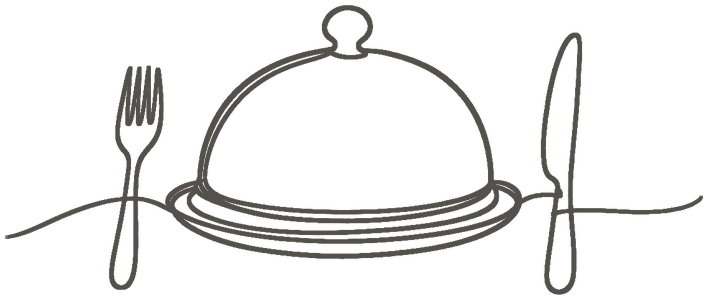
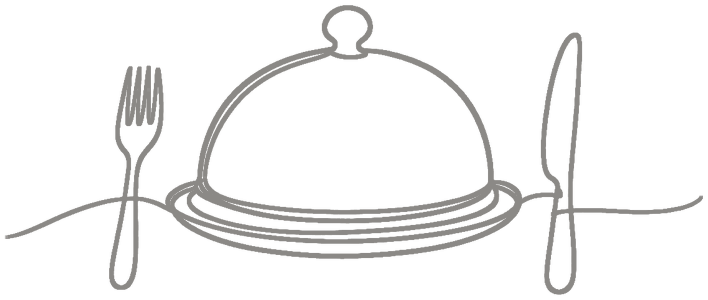
The Day: fix image address quotes, ease the tower, hand and dinner drawings, refresh versions

diff --git a/the-day.html b/the-day.html
@@ -9,7 +9,7 @@
 <link rel="preconnect" href="https://fonts.googleapis.com" />
 <link rel="preconnect" href="https://fonts.gstatic.com" crossorigin />
 <link href="https://fonts.googleapis.com/css2?family=Cormorant+Garamond:ital,wght@0,400;0,500;0,600;1,400&family=Jost:wght@300;400;500;600;700&family=Pinyon+Script&family=Playfair+Display:ital,wght@0,500;0,600;1,500&family=Bodoni+Moda:ital,wght@0,500;0,600;1,500&family=Cinzel:wght@500;600&family=Marcellus&family=Prata&display=swap" rel="stylesheet" />
-<link rel="stylesheet" href="style.css?v=60" />
+<link rel="stylesheet" href="style.css?v=61" />
 </head>
 <body>
 
@@ -39,22 +39,22 @@
       <hr class="divider" aria-hidden="true" />
     </div>
     <div class="timeline">
-      <div class="tl-item tl-item--art"><div class="tl-text"><div class="tl-time">11:45 am</div><div class="tl-label">Guests Arrive</div><div class="tl-note">Welcome, and a &lsquo;getting comfy&rsquo; half hour</div></div><div class="tl-art tl-art--r"><img src="Photos/itinerary/guests.png?v=15 alt="" loading="lazy"></div></div>
-      <div class="tl-item tl-item--art"><div class="tl-art tl-art--l"><img src="Photos/itinerary/seated.png?v=15 alt="" loading="lazy"></div><div class="tl-text"><div class="tl-time">12:15 pm</div><div class="tl-label">Please Be Seated</div><div class="tl-note">Guests are seated while the registrar speaks with the couple</div></div></div>
-      <div class="tl-item tl-item--art"><div class="tl-text"><div class="tl-time">12:30 pm</div><div class="tl-label">The Ceremony</div><div class="tl-note">The main event &ndash; it&rsquo;s time to make it official!</div></div><div class="tl-art tl-art--r"><img src="Photos/itinerary/ceremony.png?v=15 alt="" loading="lazy"></div></div>
-      <div class="tl-item tl-item--art"><div class="tl-art tl-art--l"><img src="Photos/itinerary/camera.png?v=15 alt="" loading="lazy"></div><div class="tl-text"><div class="tl-time">1:00 pm</div><div class="tl-label">Drinks Reception &amp; Photographs</div><div class="tl-note"></div></div></div>
-      <div class="tl-item tl-item--art"><div class="tl-text"><div class="tl-time">1:15 pm</div><div class="tl-label">Canap&eacute;s</div><div class="tl-note">Served during the drinks reception</div></div><div class="tl-art tl-art--r"><img src="Photos/itinerary/canapes.png?v=15 alt="" loading="lazy"></div></div>
-      <div class="tl-item tl-item--art"><div class="tl-art tl-art--l"><img src="Photos/itinerary/tower.png?v=15 alt="" loading="lazy"></div><div class="tl-text"><div class="tl-time">2:30 pm</div><div class="tl-label">Into the Ballroom</div><div class="tl-note">Guests are moved through to the Ballroom</div></div></div>
-      <div class="tl-item tl-item--art"><div class="tl-text"><div class="tl-time">2:45 pm</div><div class="tl-label">The Happy Couple</div><div class="tl-note">The Master of Ceremonies announces Jessica &amp; Matthew</div></div><div class="tl-art tl-art--r"><img src="Photos/itinerary/couple.png?v=15 alt="" loading="lazy"></div></div>
-      <div class="tl-item tl-item--art"><div class="tl-art tl-art--l"><img src="Photos/itinerary/toast.png?v=15 alt="" loading="lazy"></div><div class="tl-text"><div class="tl-time">3:00 pm</div><div class="tl-label">Speeches &amp; Toast</div><div class="tl-note"></div></div></div>
-      <div class="tl-item tl-item--art"><div class="tl-text"><div class="tl-time">3:30 pm</div><div class="tl-label">Wedding Breakfast</div><div class="tl-note">The wedding breakfast is served</div></div><div class="tl-art tl-art--r"><img src="Photos/itinerary/breakfast.png?v=15 alt="" loading="lazy"></div></div>
-      <div class="tl-item tl-item--art"><div class="tl-art tl-art--l"><img src="Photos/itinerary/cocktail.png?v=15 alt="" loading="lazy"></div><div class="tl-text"><div class="tl-time">5:30 pm</div><div class="tl-label">Refreshment Hour</div><div class="tl-note">An hour of refreshment time before we meet back for the evening</div></div></div>
-      <div class="tl-item tl-item--art"><div class="tl-text"><div class="tl-time">6:30 pm</div><div class="tl-label">Evening Guests Arrive</div><div class="tl-note">Evening guests arrive and the cake is cut</div></div><div class="tl-art tl-art--r"><img src="Photos/itinerary/cake.png?v=15 alt="" loading="lazy"></div></div>
-      <div class="tl-item tl-item--art"><div class="tl-art tl-art--l"><img src="Photos/itinerary/dance.png?v=15 alt="" loading="lazy"></div><div class="tl-text"><div class="tl-time">7:00 pm</div><div class="tl-label">First Dance</div><div class="tl-note"></div></div></div>
-      <div class="tl-item tl-item--art"><div class="tl-text"><div class="tl-time">8:30 pm</div><div class="tl-label">Evening Food</div><div class="tl-note">Evening food is served</div></div><div class="tl-art tl-art--r"><img src="Photos/itinerary/dinner.png?v=15 alt="" loading="lazy"></div></div>
-      <div class="tl-item tl-item--art"><div class="tl-art tl-art--l"><img src="Photos/itinerary/taxi.png?v=15 alt="" loading="lazy"></div><div class="tl-text"><div class="tl-time">12:00 am</div><div class="tl-label">Farewell</div><div class="tl-note">The bar closes, the music finishes and guests depart</div></div></div>
+      <div class="tl-item tl-item--art"><div class="tl-text"><div class="tl-time">11:45 am</div><div class="tl-label">Guests Arrive</div><div class="tl-note">Welcome, and a &lsquo;getting comfy&rsquo; half hour</div></div><div class="tl-art tl-art--r"><img src="Photos/itinerary/guests.png?v=19" alt="" loading="lazy"></div></div>
+      <div class="tl-item tl-item--art"><div class="tl-art tl-art--l"><img src="Photos/itinerary/seated.png?v=19" alt="" loading="lazy"></div><div class="tl-text"><div class="tl-time">12:15 pm</div><div class="tl-label">Please Be Seated</div><div class="tl-note">Guests are seated while the registrar speaks with the couple</div></div></div>
+      <div class="tl-item tl-item--art"><div class="tl-text"><div class="tl-time">12:30 pm</div><div class="tl-label">The Ceremony</div><div class="tl-note">The main event &ndash; it&rsquo;s time to make it official!</div></div><div class="tl-art tl-art--r"><img src="Photos/itinerary/ceremony.png?v=19" alt="" loading="lazy"></div></div>
+      <div class="tl-item tl-item--art"><div class="tl-art tl-art--l"><img src="Photos/itinerary/camera.png?v=19" alt="" loading="lazy"></div><div class="tl-text"><div class="tl-time">1:00 pm</div><div class="tl-label">Drinks Reception &amp; Photographs</div><div class="tl-note"></div></div></div>
+      <div class="tl-item tl-item--art"><div class="tl-text"><div class="tl-time">1:15 pm</div><div class="tl-label">Canap&eacute;s</div><div class="tl-note">Served during the drinks reception</div></div><div class="tl-art tl-art--r"><img src="Photos/itinerary/canapes.png?v=19" alt="" loading="lazy"></div></div>
+      <div class="tl-item tl-item--art"><div class="tl-art tl-art--l"><img src="Photos/itinerary/tower.png?v=19" alt="" loading="lazy"></div><div class="tl-text"><div class="tl-time">2:30 pm</div><div class="tl-label">Into the Ballroom</div><div class="tl-note">Guests are moved through to the Ballroom</div></div></div>
+      <div class="tl-item tl-item--art"><div class="tl-text"><div class="tl-time">2:45 pm</div><div class="tl-label">The Happy Couple</div><div class="tl-note">The Master of Ceremonies announces Jessica &amp; Matthew</div></div><div class="tl-art tl-art--r"><img src="Photos/itinerary/couple.png?v=19" alt="" loading="lazy"></div></div>
+      <div class="tl-item tl-item--art"><div class="tl-art tl-art--l"><img src="Photos/itinerary/toast.png?v=19" alt="" loading="lazy"></div><div class="tl-text"><div class="tl-time">3:00 pm</div><div class="tl-label">Speeches &amp; Toast</div><div class="tl-note"></div></div></div>
+      <div class="tl-item tl-item--art"><div class="tl-text"><div class="tl-time">3:30 pm</div><div class="tl-label">Wedding Breakfast</div><div class="tl-note">The wedding breakfast is served</div></div><div class="tl-art tl-art--r"><img src="Photos/itinerary/breakfast.png?v=19" alt="" loading="lazy"></div></div>
+      <div class="tl-item tl-item--art"><div class="tl-art tl-art--l"><img src="Photos/itinerary/cocktail.png?v=19" alt="" loading="lazy"></div><div class="tl-text"><div class="tl-time">5:30 pm</div><div class="tl-label">Refreshment Hour</div><div class="tl-note">An hour of refreshment time before we meet back for the evening</div></div></div>
+      <div class="tl-item tl-item--art"><div class="tl-text"><div class="tl-time">6:30 pm</div><div class="tl-label">Evening Guests Arrive</div><div class="tl-note">Evening guests arrive and the cake is cut</div></div><div class="tl-art tl-art--r"><img src="Photos/itinerary/cake.png?v=19" alt="" loading="lazy"></div></div>
+      <div class="tl-item tl-item--art"><div class="tl-art tl-art--l"><img src="Photos/itinerary/dance.png?v=19" alt="" loading="lazy"></div><div class="tl-text"><div class="tl-time">7:00 pm</div><div class="tl-label">First Dance</div><div class="tl-note"></div></div></div>
+      <div class="tl-item tl-item--art"><div class="tl-text"><div class="tl-time">8:30 pm</div><div class="tl-label">Evening Food</div><div class="tl-note">Evening food is served</div></div><div class="tl-art tl-art--r"><img src="Photos/itinerary/dinner.png?v=19" alt="" loading="lazy"></div></div>
+      <div class="tl-item tl-item--art"><div class="tl-art tl-art--l"><img src="Photos/itinerary/taxi.png?v=19" alt="" loading="lazy"></div><div class="tl-text"><div class="tl-time">12:00 am</div><div class="tl-label">Farewell</div><div class="tl-note">The bar closes, the music finishes and guests depart</div></div></div>
     </div>
-    <div class="day-end" aria-hidden="true"><img src="Photos/itinerary/farewell.png?v=15 alt="" loading="lazy"></div>
+    <div class="day-end" aria-hidden="true"><img src="Photos/itinerary/farewell.png?v=19" alt="" loading="lazy"></div>
   </section>
 
   </main>

diff --git a/index.html b/index.html
@@ -19,7 +19,7 @@
 <link rel="preconnect" href="https://fonts.googleapis.com" />
 <link rel="preconnect" href="https://fonts.gstatic.com" crossorigin />
 <link href="https://fonts.googleapis.com/css2?family=Cormorant+Garamond:ital,wght@0,400;0,500;0,600;1,400&family=Jost:wght@300;400;500;600;700&family=Pinyon+Script&family=Playfair+Display:ital,wght@0,500;0,600;1,500&family=Bodoni+Moda:ital,wght@0,500;0,600;1,500&family=Cinzel:wght@500;600&family=Marcellus&family=Prata&display=swap" rel="stylesheet" />
-<link rel="stylesheet" href="style.css?v=60" />
+<link rel="stylesheet" href="style.css?v=61" />
 </head>
 <body>
 

diff --git a/faq.html b/faq.html
@@ -9,7 +9,7 @@
 <link rel="preconnect" href="https://fonts.googleapis.com" />
 <link rel="preconnect" href="https://fonts.gstatic.com" crossorigin />
 <link href="https://fonts.googleapis.com/css2?family=Cormorant+Garamond:ital,wght@0,400;0,500;0,600;1,400&family=Jost:wght@300;400;500;600;700&family=Pinyon+Script&family=Playfair+Display:ital,wght@0,500;0,600;1,500&family=Bodoni+Moda:ital,wght@0,500;0,600;1,500&family=Cinzel:wght@500;600&family=Marcellus&family=Prata&display=swap" rel="stylesheet" />
-<link rel="stylesheet" href="style.css?v=60" />
+<link rel="stylesheet" href="style.css?v=61" />
 </head>
 <body>
 

diff --git a/registry.html b/registry.html
@@ -9,7 +9,7 @@
 <link rel="preconnect" href="https://fonts.googleapis.com" />
 <link rel="preconnect" href="https://fonts.gstatic.com" crossorigin />
 <link href="https://fonts.googleapis.com/css2?family=Cormorant+Garamond:ital,wght@0,400;0,500;0,600;1,400&family=Jost:wght@300;400;500;600;700&family=Pinyon+Script&family=Playfair+Display:ital,wght@0,500;0,600;1,500&family=Bodoni+Moda:ital,wght@0,500;0,600;1,500&family=Cinzel:wght@500;600&family=Marcellus&family=Prata&display=swap" rel="stylesheet" />
-<link rel="stylesheet" href="style.css?v=60" />
+<link rel="stylesheet" href="style.css?v=61" />
 </head>
 <body>
 

diff --git a/rsvp.html b/rsvp.html
@@ -9,7 +9,7 @@
 <link rel="preconnect" href="https://fonts.googleapis.com" />
 <link rel="preconnect" href="https://fonts.gstatic.com" crossorigin />
 <link href="https://fonts.googleapis.com/css2?family=Cormorant+Garamond:ital,wght@0,400;0,500;0,600;1,400&family=Jost:wght@300;400;500;600;700&family=Pinyon+Script&family=Playfair+Display:ital,wght@0,500;0,600;1,500&family=Bodoni+Moda:ital,wght@0,500;0,600;1,500&family=Cinzel:wght@500;600&family=Marcellus&family=Prata&display=swap" rel="stylesheet" />
-<link rel="stylesheet" href="style.css?v=60" />
+<link rel="stylesheet" href="style.css?v=61" />
 </head>
 <body>
 

diff --git a/things-to-do.html b/things-to-do.html
@@ -9,7 +9,7 @@
 <link rel="preconnect" href="https://fonts.googleapis.com" />
 <link rel="preconnect" href="https://fonts.gstatic.com" crossorigin />
 <link href="https://fonts.googleapis.com/css2?family=Cormorant+Garamond:ital,wght@0,400;0,500;0,600;1,400&family=Jost:wght@300;400;500;600;700&family=Pinyon+Script&family=Playfair+Display:ital,wght@0,500;0,600;1,500&family=Bodoni+Moda:ital,wght@0,500;0,600;1,500&family=Cinzel:wght@500;600&family=Marcellus&family=Prata&display=swap" rel="stylesheet" />
-<link rel="stylesheet" href="style.css?v=60" />
+<link rel="stylesheet" href="style.css?v=61" />
 </head>
 <body>
 

diff --git a/travel.html b/travel.html
@@ -9,7 +9,7 @@
 <link rel="preconnect" href="https://fonts.googleapis.com" />
 <link rel="preconnect" href="https://fonts.gstatic.com" crossorigin />
 <link href="https://fonts.googleapis.com/css2?family=Cormorant+Garamond:ital,wght@0,400;0,500;0,600;1,400&family=Jost:wght@300;400;500;600;700&family=Pinyon+Script&family=Playfair+Display:ital,wght@0,500;0,600;1,500&family=Bodoni+Moda:ital,wght@0,500;0,600;1,500&family=Cinzel:wght@500;600&family=Marcellus&family=Prata&display=swap" rel="stylesheet" />
-<link rel="stylesheet" href="style.css?v=60" />
+<link rel="stylesheet" href="style.css?v=61" />
 </head>
 <body>
 

diff --git a/wedding-party.html b/wedding-party.html
@@ -9,7 +9,7 @@
 <link rel="preconnect" href="https://fonts.googleapis.com" />
 <link rel="preconnect" href="https://fonts.gstatic.com" crossorigin />
 <link href="https://fonts.googleapis.com/css2?family=Cormorant+Garamond:ital,wght@0,400;0,500;0,600;1,400&family=Jost:wght@300;400;500;600;700&family=Pinyon+Script&family=Playfair+Display:ital,wght@0,500;0,600;1,500&family=Bodoni+Moda:ital,wght@0,500;0,600;1,500&family=Cinzel:wght@500;600&family=Marcellus&family=Prata&display=swap" rel="stylesheet" />
-<link rel="stylesheet" href="style.css?v=60" />
+<link rel="stylesheet" href="style.css?v=61" />
 </head>
 <body>
 
